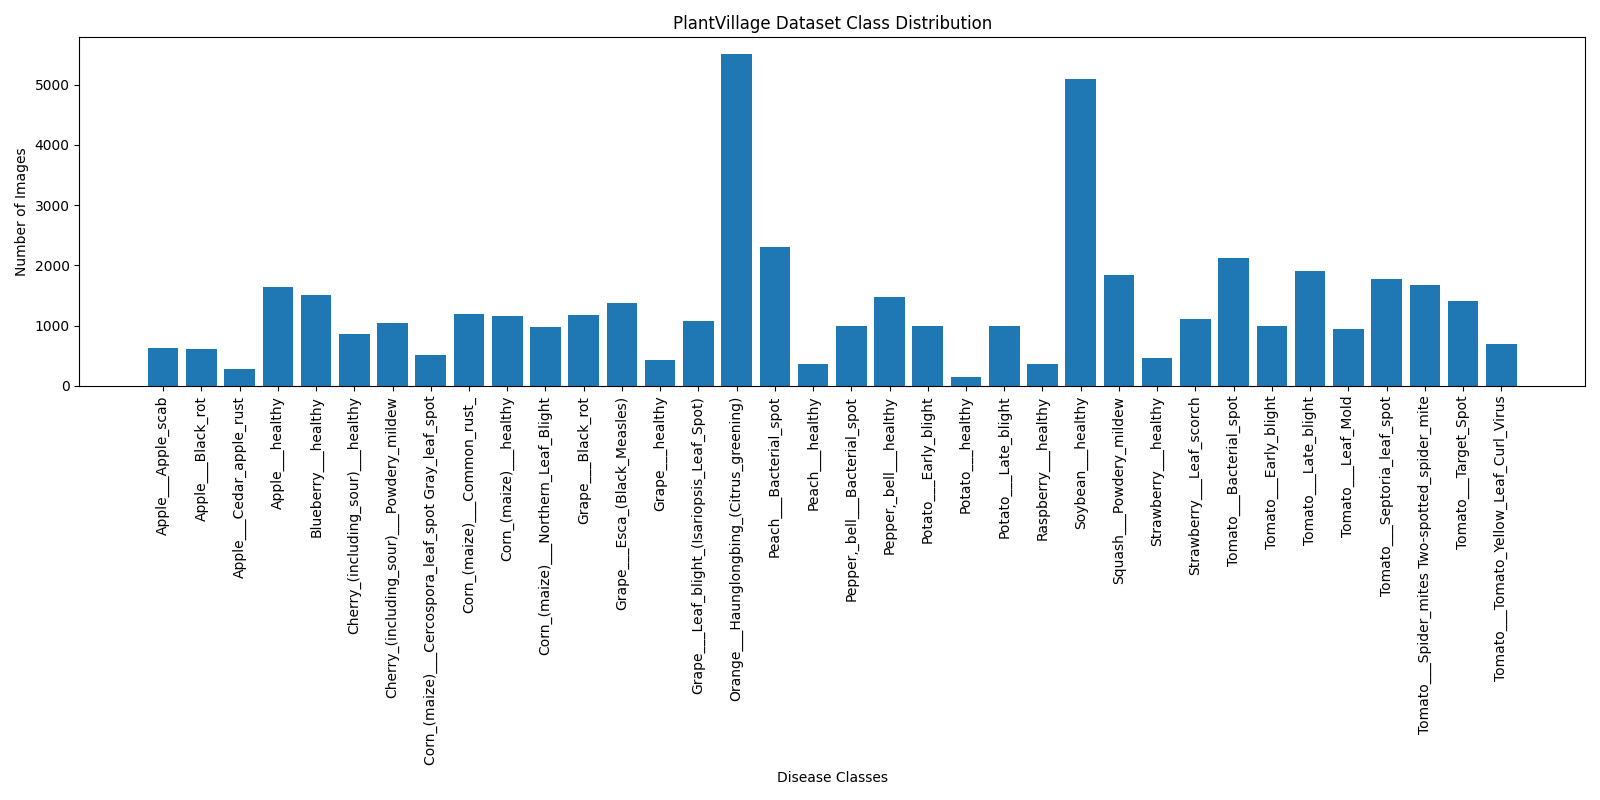
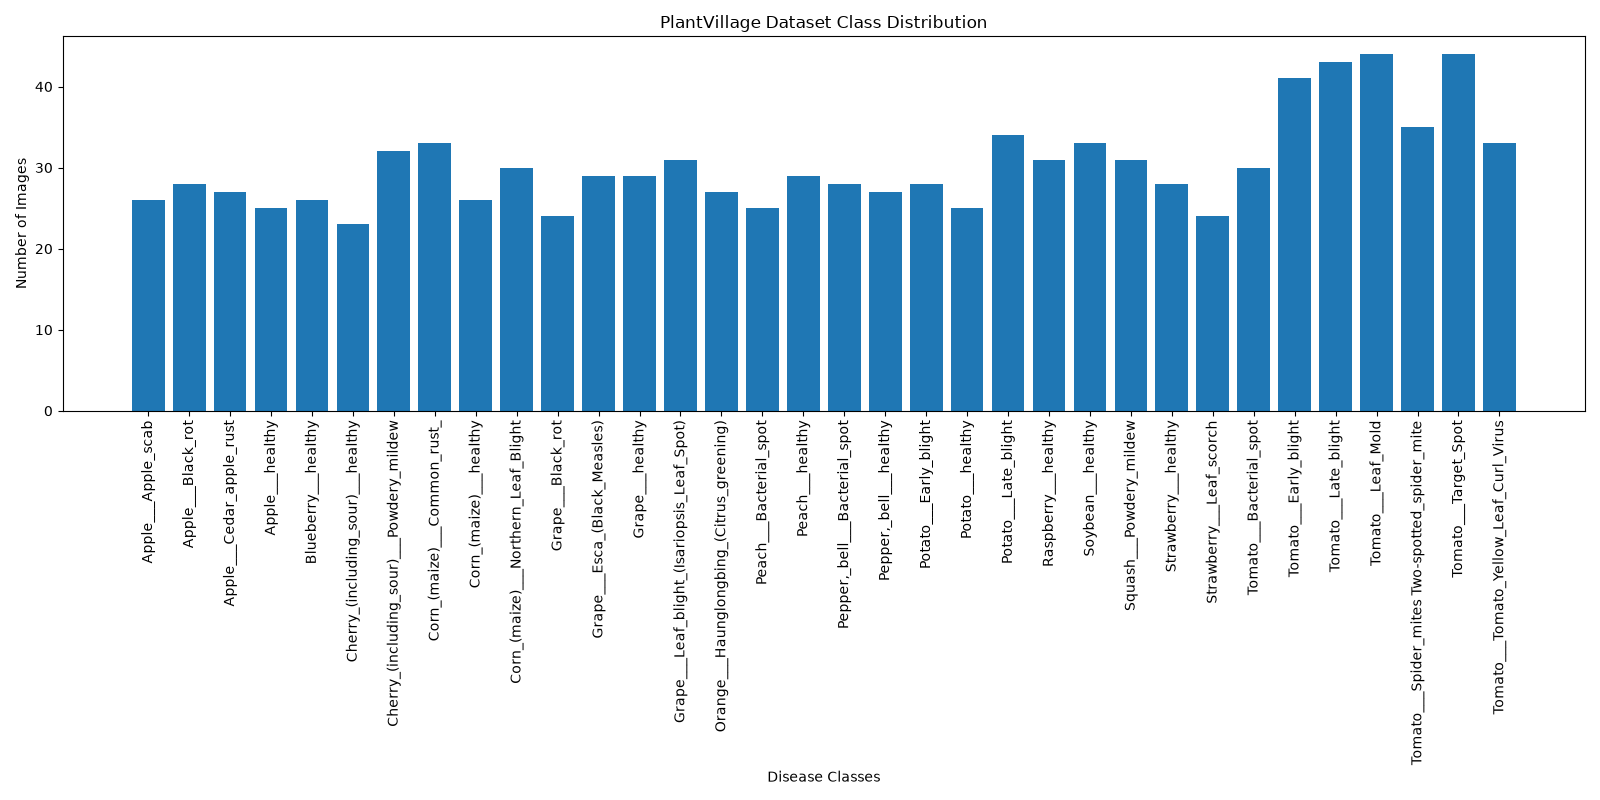
Completed CNN model training and saved trained model

diff --git a/src/train_model.py b/src/train_model.py
@@ -1,0 +1,69 @@
+import tensorflow as tf
+from tensorflow.keras import layers, models
+
+# Dataset path
+dataset_path = "plantvillage dataset/color"
+
+# Load Training Dataset
+train_ds = tf.keras.utils.image_dataset_from_directory(
+    dataset_path,
+    validation_split=0.2,
+    subset="training",
+    seed=42,
+    image_size=(224, 224),
+    batch_size=32
+)
+
+# Load Validation Dataset
+val_ds = tf.keras.utils.image_dataset_from_directory(
+    dataset_path,
+    validation_split=0.2,
+    subset="validation",
+    seed=42,
+    image_size=(224, 224),
+    batch_size=32
+)
+
+# Build CNN Model
+model = models.Sequential([
+    layers.Input(shape=(224, 224, 3)),
+    layers.Rescaling(1./255),
+
+    layers.Conv2D(32, (3,3), activation='relu'),
+    layers.MaxPooling2D(2,2),
+
+    layers.Conv2D(64, (3,3), activation='relu'),
+    layers.MaxPooling2D(2,2),
+
+    layers.Conv2D(128, (3,3), activation='relu'),
+    layers.MaxPooling2D(2,2),
+
+    layers.Flatten(),
+
+    layers.Dense(128, activation='relu'),
+    layers.Dropout(0.5),
+
+    layers.Dense(38, activation='softmax')
+])
+
+# Compile Model
+model.compile(
+    optimizer='adam',
+    loss='sparse_categorical_crossentropy',
+    metrics=['accuracy']
+)
+
+print("Training Started...\n")
+
+# Train Model
+history = model.fit(
+    train_ds,
+    validation_data=val_ds,
+    epochs=5
+)
+
+# Save Model
+model.save("crop_disease_model.keras")
+
+print("\nModel Training Completed Successfully!")
+print("Model saved as crop_disease_model.keras")